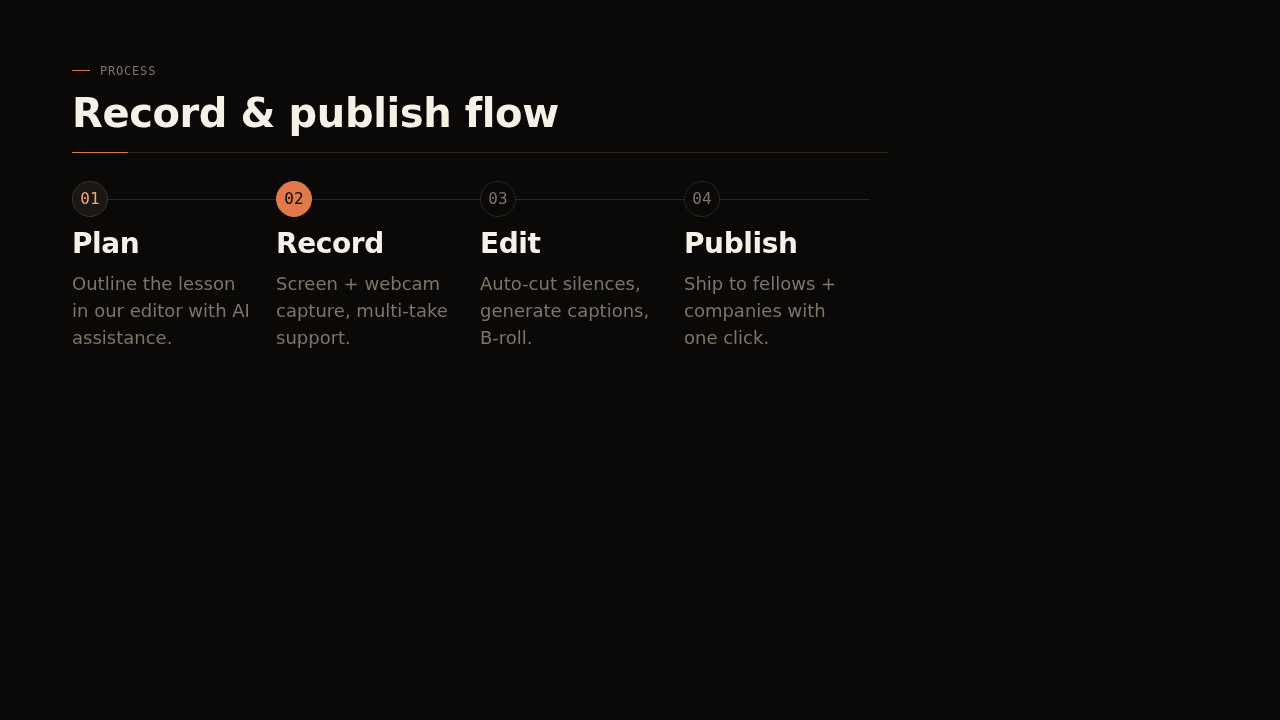
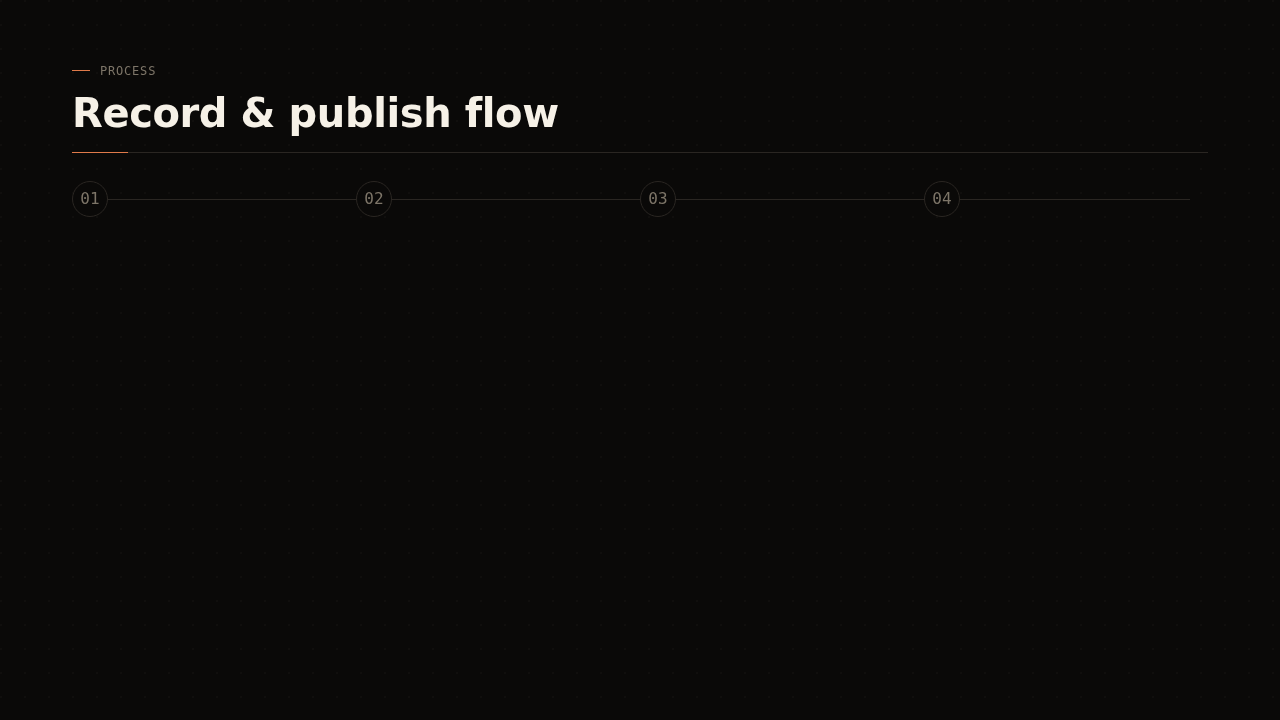
fix(steps): render item text in circles, expand canvas to 1280×720 (#27)
* fix(code-block): add format=multiline to code slot

Marks the code slot with format=multiline so lesson-studio renders a
larger textarea instead of a single-line input.

* fix(steps): use {{text}} for item labels, expand canvas to 1280×720

Bug #1: items loop used {{title}} (fell back to slide-level title via
Mustache parent scope) instead of {{text}} which is what ListInput stores.
Changed both landscape.html and portrait.html to {{text}}.

Bug #2: .tpl-root.tpl-steps dimensions were 960×540 (portrait 540×960),
leaving blank space since the canvas host expects 1280×720 (portrait 720×1280).
Updated landscape.css and portrait.css to match canvas dimensions.

Added CSS counter auto-numbering (decimal-leading-zero) via counter-reset/
counter-increment on rail/step + ::before on .tpl-steps__num, since items
no longer carry explicit num/body/state sub-fields.

Regenerated preview PNGs via scripts/preview-gen.ts.

Refs: TG 5367 (2026-05-18)

---------

diff --git a/templates/steps/landscape.css b/templates/steps/landscape.css
@@ -1,9 +1,9 @@
-/* tpl-steps · landscape — 960×540 */
+/* tpl-steps · landscape — 1280×720 */
 
 .tpl-root.tpl-steps {
   position: relative;
-  width: 960px;
-  height: 540px;
+  width: 1280px;
+  height: 720px;
   padding: 56px 72px;
   background: var(--s-surface-page, #0a0908);
   color: var(--s-ink-primary, #f6f1e7);
@@ -30,9 +30,10 @@
 .tpl-root.tpl-steps .tpl-steps__rail {
   margin-top: 8px;
   display: grid;
-  grid-template-columns: repeat(4, 1fr);
+  grid-template-columns: repeat(auto-fit, minmax(160px, 1fr));
   gap: 0;
   position: relative;
+  counter-reset: step-counter;
 }
 
 .tpl-root.tpl-steps .tpl-steps__rail::before {
@@ -53,6 +54,7 @@
   flex-direction: column;
   gap: 10px;
   z-index: 1;
+  counter-increment: step-counter;
 }
 
 .tpl-root.tpl-steps .tpl-steps__num {
@@ -69,6 +71,10 @@
   font-weight: var(--p-weight-500, 500);
   color: var(--s-ink-muted, #7d7568);
   flex-shrink: 0;
+}
+
+.tpl-root.tpl-steps .tpl-steps__num::before {
+  content: counter(step-counter, decimal-leading-zero);
 }
 
 .tpl-root.tpl-steps .tpl-steps__step--active .tpl-steps__num {

diff --git a/templates/steps/portrait.css b/templates/steps/portrait.css
@@ -1,9 +1,9 @@
-/* tpl-steps · portrait — 540×960 */
+/* tpl-steps · portrait — 720×1280 */
 
 .tpl-root.tpl-steps.tpl-steps--portrait {
   position: relative;
-  width: 540px;
-  height: 960px;
+  width: 720px;
+  height: 1280px;
   padding: 72px 56px;
   background: var(--s-surface-page, #0a0908);
   color: var(--s-ink-primary, #f6f1e7);
@@ -33,6 +33,7 @@
   grid-template-columns: 1fr;
   gap: 0;
   position: relative;
+  counter-reset: step-counter;
 }
 
 .tpl-root.tpl-steps.tpl-steps--portrait .tpl-steps__rail::before {
@@ -54,6 +55,7 @@
   flex-direction: column;
   gap: 10px;
   z-index: 1;
+  counter-increment: step-counter;
 }
 
 .tpl-root.tpl-steps.tpl-steps--portrait .tpl-steps__num {
@@ -73,6 +75,10 @@
   font-weight: var(--p-weight-500, 500);
   color: var(--s-ink-muted, #7d7568);
   flex-shrink: 0;
+}
+
+.tpl-root.tpl-steps.tpl-steps--portrait .tpl-steps__num::before {
+  content: counter(step-counter, decimal-leading-zero);
 }
 
 .tpl-root.tpl-steps.tpl-steps--portrait .tpl-steps__step--active .tpl-steps__num {

diff --git a/templates/steps/landscape.html b/templates/steps/landscape.html
@@ -4,10 +4,9 @@
   <div class="dfl-section-rule"></div>
   <div class="tpl-steps__rail">
     {{#items}}
-    <div class="tpl-steps__step tpl-steps__step--{{state}}">
-      <div class="tpl-steps__num">{{num}}</div>
-      <h4 class="tpl-steps__name">{{title}}</h4>
-      <p class="tpl-steps__body">{{body}}</p>
+    <div class="tpl-steps__step">
+      <div class="tpl-steps__num"></div>
+      <h4 class="tpl-steps__name">{{text}}</h4>
     </div>
     {{/items}}
   </div>

diff --git a/templates/steps/portrait.html b/templates/steps/portrait.html
@@ -4,10 +4,9 @@
   <div class="dfl-section-rule"></div>
   <div class="tpl-steps__rail">
     {{#items}}
-    <div class="tpl-steps__step tpl-steps__step--{{state}}">
-      <div class="tpl-steps__num">{{num}}</div>
-      <h4 class="tpl-steps__name">{{title}}</h4>
-      <p class="tpl-steps__body">{{body}}</p>
+    <div class="tpl-steps__step">
+      <div class="tpl-steps__num"></div>
+      <h4 class="tpl-steps__name">{{text}}</h4>
     </div>
     {{/items}}
   </div>